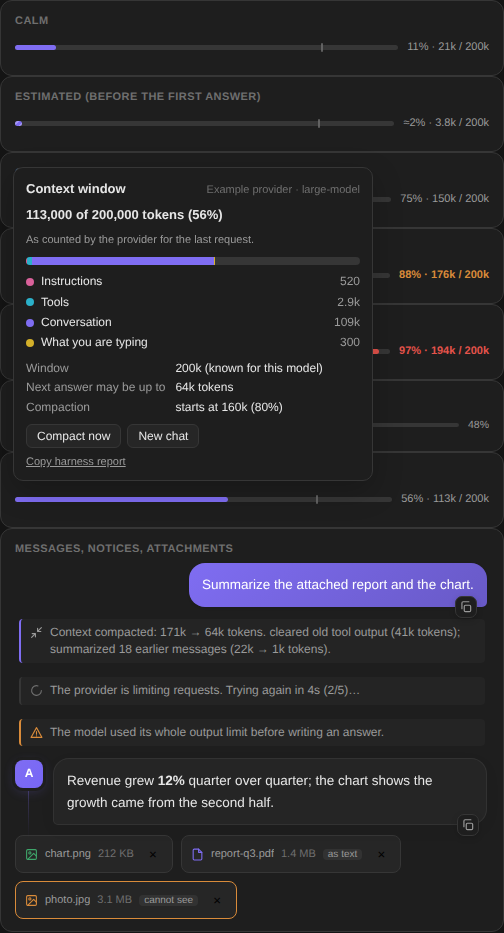
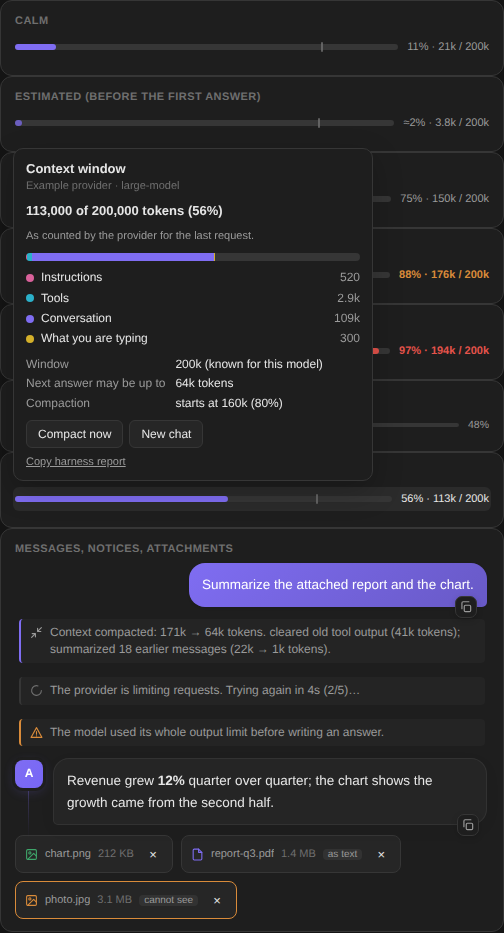
Fix the context bar and its details as Obsidian draws them (1.8.2)
- Give the plugin's buttons enough specificity to beat Obsidian's
  button:not(.clickable-icon) rules: the bar, the harness-report link, the
  popover actions, the copy chips, the attachment remove buttons and the
  model menu's Auto buttons.
- Put the model under the popover title so it no longer wraps, drop the
  hatched estimate fill, and keep keyboard focus to a plain outline.
- Treat Gemma 3 and later as 128k models (3n: 32k) instead of 8k.
- Add test/obsidian-controls.css so the context-bar preview shows the
  app's own button and slider rules.

Claude-Session: https://claude.ai/code/session_01136MY4aeXv5N98j1zhg18J

diff --git a/styles.css b/styles.css
@@ -3091,7 +3091,7 @@
   white-space: nowrap;
 }
 .agenter-attachment-icon { display: inline-flex; color: var(--interactive-accent); }
-.agenter-attachment-chip button {
+.agenter-attachment-strip .agenter-attachment-chip button {
   display: grid;
   width: 24px;
   height: 24px;
@@ -3646,7 +3646,7 @@
 
 /* A small copy button at the corner of a message: there when it is looked for. */
 .agenter-msg { position: relative; }
-.agenter-msg-copy {
+.agenter-msg button.agenter-msg-copy {
   position: absolute;
   inset-block-end: -11px;
   inset-inline-end: 10px;
@@ -3666,18 +3666,18 @@
   cursor: pointer;
   transition: opacity 0.12s ease, color 0.12s ease, background-color 0.12s ease;
 }
-.agenter-msg:hover .agenter-msg-copy,
-.agenter-msg:focus-within .agenter-msg-copy,
-.agenter-msg-copy:focus-visible { opacity: 1; }
-.agenter-msg-copy:hover { color: var(--text-normal); background: var(--background-secondary); }
-.agenter-msg-copy:focus-visible { outline: 2px solid var(--interactive-accent); outline-offset: 1px; }
-.agenter-msg-copy.is-copied { color: var(--color-green, #3fa66b); opacity: 1; }
-.agenter-msg-copy.is-failed { color: var(--text-error); opacity: 1; }
+.agenter-msg:hover button.agenter-msg-copy,
+.agenter-msg:focus-within button.agenter-msg-copy,
+.agenter-msg button.agenter-msg-copy:focus-visible { opacity: 1; }
+.agenter-msg button.agenter-msg-copy:hover { color: var(--text-normal); background: var(--background-secondary); box-shadow: 0 2px 6px rgba(0, 0, 0, 0.16); }
+.agenter-msg button.agenter-msg-copy:focus-visible { outline: 2px solid var(--interactive-accent); outline-offset: 1px; box-shadow: 0 2px 6px rgba(0, 0, 0, 0.16); }
+.agenter-msg button.agenter-msg-copy.is-copied { color: var(--color-green, #3fa66b); opacity: 1; }
+.agenter-msg button.agenter-msg-copy.is-failed { color: var(--text-error); opacity: 1; }
 .agenter-msg-copy .svg-icon { width: 14px; height: 14px; }
-@media (hover: none) { .agenter-msg-copy { opacity: 0.7; } }
+@media (hover: none) { .agenter-msg button.agenter-msg-copy { opacity: 0.7; } }
 
 .agenter-ctx-row.is-assistant { position: relative; }
-.agenter-ctx-copy {
+.agenter-ctx-row button.agenter-ctx-copy {
   display: inline-grid;
   width: 22px;
   height: 22px;
@@ -3691,8 +3691,8 @@
   box-shadow: none;
   cursor: pointer;
 }
-.agenter-ctx-copy:hover,
-.agenter-ctx-copy:focus-visible { color: var(--text-normal); background: var(--background-modifier-hover); }
+.agenter-ctx-row button.agenter-ctx-copy:hover,
+.agenter-ctx-row button.agenter-ctx-copy:focus-visible { color: var(--text-normal); background: var(--background-modifier-hover); box-shadow: none; }
 .agenter-ctx-copy .svg-icon { width: 13px; height: 13px; }
 
 /* ============================================================
@@ -3730,9 +3730,10 @@
 .agenter-ctxmeter { position: relative; display: block; }
 .agenter-ctxmeter.is-hidden,
 .agenter-ctxmeter.is-empty { display: none; }
-.agenter-ctxmeter-btn {
+.agenter-ctxmeter > button.agenter-ctxmeter-btn {
   display: flex;
   width: 100%;
+  height: auto;
   min-height: 24px;
   align-items: center;
   gap: 9px;
@@ -3748,12 +3749,14 @@
   text-align: start;
   cursor: pointer;
 }
-.agenter-ctxmeter-btn:hover { color: var(--text-normal); background: var(--background-modifier-hover); }
-.agenter-ctxmeter-btn:focus-visible { outline: 2px solid var(--interactive-accent); outline-offset: 1px; }
+.agenter-ctxmeter > button.agenter-ctxmeter-btn:hover,
+.agenter-ctxmeter > button.agenter-ctxmeter-btn[aria-expanded="true"] { color: var(--text-normal); background: var(--background-modifier-hover); box-shadow: none; }
+.agenter-ctxmeter > button.agenter-ctxmeter-btn:focus { box-shadow: none; outline: none; }
+.agenter-ctxmeter > button.agenter-ctxmeter-btn:focus-visible { box-shadow: none; outline: 2px solid var(--interactive-accent); outline-offset: 1px; }
 .agenter-ctxmeter-track {
   position: relative;
   flex: 1;
-  height: 5px;
+  height: 6px;
   min-width: 40px;
   overflow: visible;
   border-radius: 999px;
@@ -3768,10 +3771,7 @@
   background: var(--agenter-meter, var(--interactive-accent));
   transition: width 0.25s ease, background-color 0.25s ease;
 }
-.agenter-ctxmeter.is-estimated .agenter-ctxmeter-fill {
-  background-image: repeating-linear-gradient(135deg, rgba(255,255,255,0.28) 0 3px, transparent 3px 6px);
-  background-color: var(--agenter-meter, var(--interactive-accent));
-}
+.agenter-ctxmeter.is-estimated .agenter-ctxmeter-fill { opacity: 0.72; }
 .agenter-ctxmeter-mark {
   position: absolute;
   inset-block: -2px;
@@ -3829,9 +3829,9 @@
   user-select: text;
 }
 .agenter-ctxmeter.is-compact .agenter-ctxmeter-pop { inset-inline: auto 0; min-width: 260px; }
-.agenter-ctxmeter-pop-head { display: flex; align-items: baseline; justify-content: space-between; gap: 8px; }
-.agenter-ctxmeter-pop-title { font-size: 13px; }
-.agenter-ctxmeter-pop-model { overflow: hidden; color: var(--text-faint); text-overflow: ellipsis; white-space: nowrap; font-size: 11px; }
+.agenter-ctxmeter-pop-head { display: flex; min-width: 0; flex-direction: column; gap: 1px; }
+.agenter-ctxmeter-pop-title { font-size: 13px; line-height: 1.3; }
+.agenter-ctxmeter-pop-model { min-width: 0; overflow: hidden; color: var(--text-faint); text-overflow: ellipsis; white-space: nowrap; font-size: 11px; }
 .agenter-ctxmeter-pop-big { font-size: 13px; font-weight: 600; font-variant-numeric: tabular-nums; }
 .agenter-ctxmeter-pop-note { color: var(--text-muted); font-size: 11px; }
 .agenter-ctxmeter-stack { display: flex; height: 8px; overflow: hidden; border-radius: 999px; background: var(--background-modifier-border); }
@@ -3852,8 +3852,10 @@
 .agenter-ctxmeter-facts dt { color: var(--text-muted); }
 .agenter-ctxmeter-facts dd { margin: 0; }
 .agenter-ctxmeter-actions { display: flex; flex-wrap: wrap; gap: 6px; }
-.agenter-ctxmeter-action {
-  padding: 4px 10px;
+.agenter-ctxmeter-actions > button.agenter-ctxmeter-action {
+  height: auto;
+  min-height: 28px;
+  padding: 4px 11px;
   border: 1px solid var(--background-modifier-border);
   border-radius: 6px;
   color: var(--text-normal);
@@ -3862,10 +3864,14 @@
   font-size: 12px;
   cursor: pointer;
 }
-.agenter-ctxmeter-action:hover:not(:disabled) { background: var(--background-modifier-hover); }
-.agenter-ctxmeter-action:disabled { opacity: 0.45; cursor: default; }
-.agenter-ctxmeter-link {
+.agenter-ctxmeter-actions > button.agenter-ctxmeter-action:hover:not(:disabled) { background: var(--background-modifier-hover); box-shadow: none; }
+.agenter-ctxmeter-actions > button.agenter-ctxmeter-action:focus-visible { box-shadow: none; outline: 2px solid var(--interactive-accent); outline-offset: 1px; }
+.agenter-ctxmeter-actions > button.agenter-ctxmeter-action:disabled { opacity: 0.45; cursor: default; }
+.agenter-ctxmeter-pop > button.agenter-ctxmeter-link {
   align-self: flex-start;
+  display: inline;
+  height: auto;
+  min-height: 0;
   padding: 0;
   border: 0;
   color: var(--text-muted);
@@ -3875,7 +3881,8 @@
   text-decoration: underline;
   cursor: pointer;
 }
-.agenter-ctxmeter-link:hover { color: var(--text-normal); }
+.agenter-ctxmeter-pop > button.agenter-ctxmeter-link:hover { color: var(--text-normal); background: transparent; box-shadow: none; }
+.agenter-ctxmeter-pop > button.agenter-ctxmeter-link:focus-visible { box-shadow: none; outline: 2px solid var(--interactive-accent); outline-offset: 2px; }
 
 /* ============================================================
    Attachments: what the model will be able to do with each
@@ -3893,7 +3900,7 @@
 .agenter-attachment-plan { padding: 0 5px; border-radius: 4px; background: var(--background-modifier-hover); font-size: 10px; }
 
 /* Model menu: the "Auto" links and hints. */
-.agenter-model-auto {
+.agenter-model-control button.agenter-model-auto {
   padding: 1px 7px;
   border: 1px solid var(--background-modifier-border);
   border-radius: 5px;
@@ -3903,7 +3910,7 @@
   font-size: 11px;
   cursor: pointer;
 }
-.agenter-model-auto:hover { color: var(--text-normal); background: var(--background-modifier-hover); }
+.agenter-model-control button.agenter-model-auto:hover { color: var(--text-normal); background: var(--background-modifier-hover); box-shadow: none; }
 .agenter-model-hint { margin-top: 3px; color: var(--text-faint); font-size: 11px; line-height: 1.4; }
 
 /* Model menu, v1.8.1: rows that line up, and sliders drawn from the theme.
@@ -3914,23 +3921,23 @@
 .agenter-model-control-top > label { flex: 1 1 auto; min-width: 0; line-height: 1.25; }
 .agenter-model-control-top > input[type="number"],
 .agenter-model-control-top > select,
-.agenter-model-control-top > .agenter-model-auto { flex: 0 0 auto; }
+.agenter-model-control-top > button.agenter-model-auto { flex: 0 0 auto; }
 .agenter-model-control input.agenter-model-number { width: 96px; font-variant-numeric: tabular-nums; }
 .agenter-model-control input.agenter-model-number::placeholder { color: var(--text-faint); }
-.agenter-model-control-top > .agenter-model-auto {
+.agenter-model-control-top > button.agenter-model-auto {
   box-sizing: border-box;
   height: 30px;
   padding: 0 10px;
   border-radius: 8px;
   color: var(--text-muted);
 }
-.agenter-model-control-top > .agenter-model-auto.is-active {
+.agenter-model-control-top > button.agenter-model-auto.is-active {
   color: var(--text-accent);
   border-color: color-mix(in srgb, var(--interactive-accent) 55%, var(--background-modifier-border));
   background: color-mix(in srgb, var(--interactive-accent) 12%, transparent);
 }
-.agenter-model-actions button { color: var(--text-normal); box-shadow: none; cursor: pointer; }
-.agenter-model-actions button:hover { background: var(--background-modifier-hover); }
+.agenter-model-popover .agenter-model-actions button { color: var(--text-normal); box-shadow: none; cursor: pointer; }
+.agenter-model-popover .agenter-model-actions button:hover { background: var(--background-modifier-hover); box-shadow: none; }
 
 .agenter-model-control input[type="range"].agenter-model-range {
   -webkit-appearance: none;

diff --git a/test/obsidian-controls.css b/test/obsidian-controls.css
@@ -1,0 +1,60 @@
+/* ---------------------------------------------------------------------------
+   Obsidian's default look for buttons, number fields and sliders.
+
+   A plain browser draws a <button> with no styles at all, so a preview without
+   this file hides every place where the app's own rules win over the plugin's:
+   Obsidian styles `button:not(.clickable-icon)`, which outweighs a bare class,
+   and it gives every button a 30px height, a fill and an inset border. Load
+   this after obsidian-theme.css and before styles.css, the order the app uses.
+   --------------------------------------------------------------------------- */
+:root {
+  --input-height: 30px;
+  --button-radius: 6px;
+  --input-font-weight: 400;
+  --interactive-normal: #2a2a2a;
+  --interactive-hover: #363636;
+  --background-modifier-border-focus: var(--interactive-accent);
+  --input-shadow: inset 0 0 0 1px var(--background-modifier-border);
+  --input-shadow-hover: inset 0 0 0 1px var(--background-modifier-border-hover);
+}
+body.light {
+  --interactive-normal: #f2f3f5;
+  --interactive-hover: #e9eaed;
+}
+button:not(.clickable-icon) {
+  display: inline-flex;
+  align-items: center;
+  justify-content: center;
+  height: var(--input-height);
+  padding: 4px 12px;
+  border: 0;
+  border-radius: var(--button-radius);
+  color: var(--text-normal);
+  background-color: var(--interactive-normal);
+  box-shadow: var(--input-shadow);
+  font-family: inherit;
+  font-size: var(--font-ui-small);
+  font-weight: var(--input-font-weight);
+  white-space: nowrap;
+  cursor: pointer;
+}
+button:not(.clickable-icon):hover { background-color: var(--interactive-hover); box-shadow: var(--input-shadow-hover); }
+button:focus-visible { box-shadow: 0 0 0 3px var(--background-modifier-border-focus); }
+input[type="range"] {
+  -webkit-appearance: none;
+  appearance: none;
+  height: 3px;
+  padding: 0;
+  border: 0;
+  border-radius: 3px;
+  background: var(--background-modifier-border);
+}
+input[type="range"]::-webkit-slider-thumb {
+  -webkit-appearance: none;
+  width: 18px;
+  height: 18px;
+  border: 1px solid var(--background-modifier-border-hover);
+  border-radius: 50%;
+  background: #fff;
+  box-shadow: 0 1px 1px rgba(0, 0, 0, 0.05), 0 2px 4px rgba(0, 0, 0, 0.15);
+}

diff --git a/src/harness/model-profile.ts b/src/harness/model-profile.ts
@@ -124,7 +124,9 @@ const KNOWN: KnownModel[] = [
   { match: /gemini-2\.0/, context: 1_048_576, output: 8_192, family: "gemini", vision: true },
   { match: /gemini-(2\.5|3)/, context: 1_048_576, output: 65_536, family: "gemini", reasoning: true, vision: true },
   { match: /gemini/, context: 1_048_576, output: 8_192, family: "gemini", vision: true },
-  { match: /gemma-?3/, context: 128_000, output: 8_192, family: "gemini", vision: true },
+  { match: /gemma-?3n/, context: 32_768, output: 8_192, family: "gemini" },
+  // Gemma 3 and everything after it reads 128k; only the first two generations were limited to 8k.
+  { match: /gemma-?([3-9]|\d{2})(?!\d|b\b)/, context: 128_000, output: 8_192, family: "gemini", vision: true },
   // DeepSeek
   { match: /deepseek-reasoner|deepseek-r1|deepseek.*(think|reason)/, context: 128_000, output: 64_000, family: "deepseek", reasoning: true },
   { match: /deepseek/, context: 128_000, output: 8_192, family: "deepseek" },

diff --git a/main.js b/main.js
@@ -256,7 +256,9 @@ var KNOWN = [
   { match: /gemini-2\.0/, context: 1048576, output: 8192, family: "gemini", vision: true },
   { match: /gemini-(2\.5|3)/, context: 1048576, output: 65536, family: "gemini", reasoning: true, vision: true },
   { match: /gemini/, context: 1048576, output: 8192, family: "gemini", vision: true },
-  { match: /gemma-?3/, context: 128e3, output: 8192, family: "gemini", vision: true },
+  { match: /gemma-?3n/, context: 32768, output: 8192, family: "gemini" },
+  // Gemma 3 and everything after it reads 128k; only the first two generations were limited to 8k.
+  { match: /gemma-?([3-9]|\d{2})(?!\d|b\b)/, context: 128e3, output: 8192, family: "gemini", vision: true },
   // DeepSeek
   { match: /deepseek-reasoner|deepseek-r1|deepseek.*(think|reason)/, context: 128e3, output: 64e3, family: "deepseek", reasoning: true },
   { match: /deepseek/, context: 128e3, output: 8192, family: "deepseek" },

diff --git a/test/meter-preview.html b/test/meter-preview.html
@@ -5,6 +5,7 @@
   <meta name="viewport" content="width=device-width, initial-scale=1">
   <title>Agenter context bar preview</title>
   <link rel="stylesheet" href="obsidian-theme.css">
+  <link rel="stylesheet" href="obsidian-controls.css">
   <link rel="stylesheet" href="../styles.css">
   <style>
     * { box-sizing: border-box; }

diff --git a/CHANGELOG.md b/CHANGELOG.md
@@ -1,5 +1,27 @@
 # Changelog
 
+## 1.8.2 - The context bar and its details, as Obsidian draws them
+
+- Obsidian styles every `button:not(.clickable-icon)` with a fill, an inset
+  border and a 30px height, and that outweighs a plain class — so in the app the
+  context bar was drawn as a boxed button with a heavy focus ring, **Copy harness
+  report** as a bordered button, and the copy chips as empty boxes. The plugin's
+  buttons now carry enough weight to win: the bar is a bare track and a label,
+  the link is a link, the actions line up, and keyboard focus gets a plain
+  outline (not a ring left behind by a mouse click).
+- The details popover puts the model on its own line under the title, so
+  **Context window** no longer wraps in two when the model's name is long.
+- The estimate fill on the bar is solid and slightly dimmer, instead of a
+  hatched pattern (the `≈` already says it is an estimate), and the track is a
+  pixel thicker.
+- Gemma 3 and later models are taken to read 128k tokens (3n: 32k) instead of
+  falling into the 8k of the first generations, so a Gemma 4 on Workers AI is no
+  longer limited to answers of about 4k. A provider that reports its own window,
+  or an error that names it, still wins over this.
+- `test/obsidian-controls.css` reproduces Obsidian's default button and slider
+  rules, and the context-bar preview loads it, so a preview no longer hides the
+  places where the app's own styles win.
+
 ## 1.8.1 - The model menu's sliders
 
 - Redrew the sliders in the model menu. Obsidian's own slider is a hairline with

diff --git a/README.md b/README.md
@@ -400,7 +400,7 @@ DOM the plugin builds:
 | --- | --- | --- |
 | `test/ui-preview.html` | The docked chat panel | `?light`, `?floating` |
 | `test/ctx-preview.html` | The contextual popover | `?light`, `?chatting`, `?quoting` |
-| `test/meter-preview.html` | The context bar, its popover, notices, attachment chips | `?light`, `?open` |
+| `test/meter-preview.html` | The context bar, its popover, notices, attachment chips — with Obsidian's own button rules from `test/obsidian-controls.css`, which a bare browser lacks | `?light`, `?open` |
 
 Open either one in a browser to check a style change without reloading
 Obsidian, or regenerate the images in this README:
